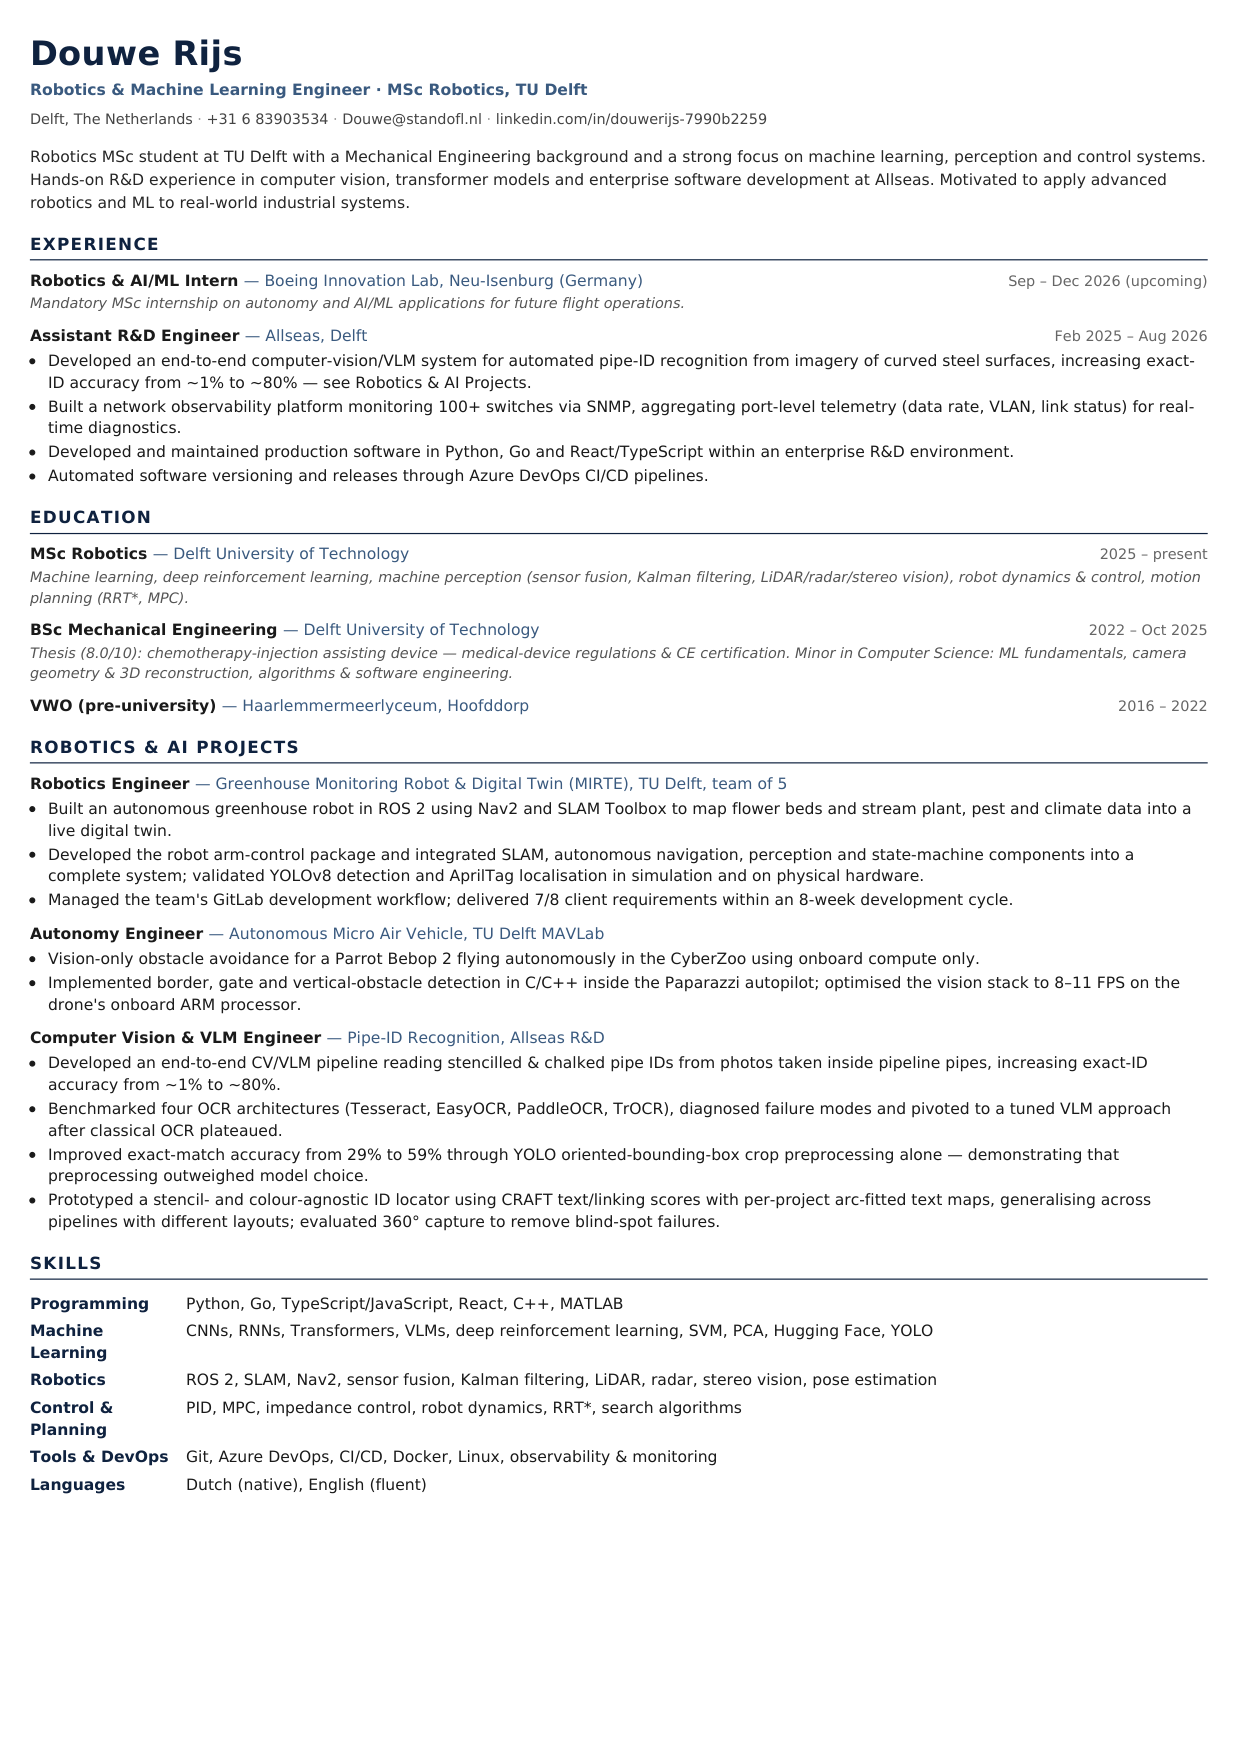
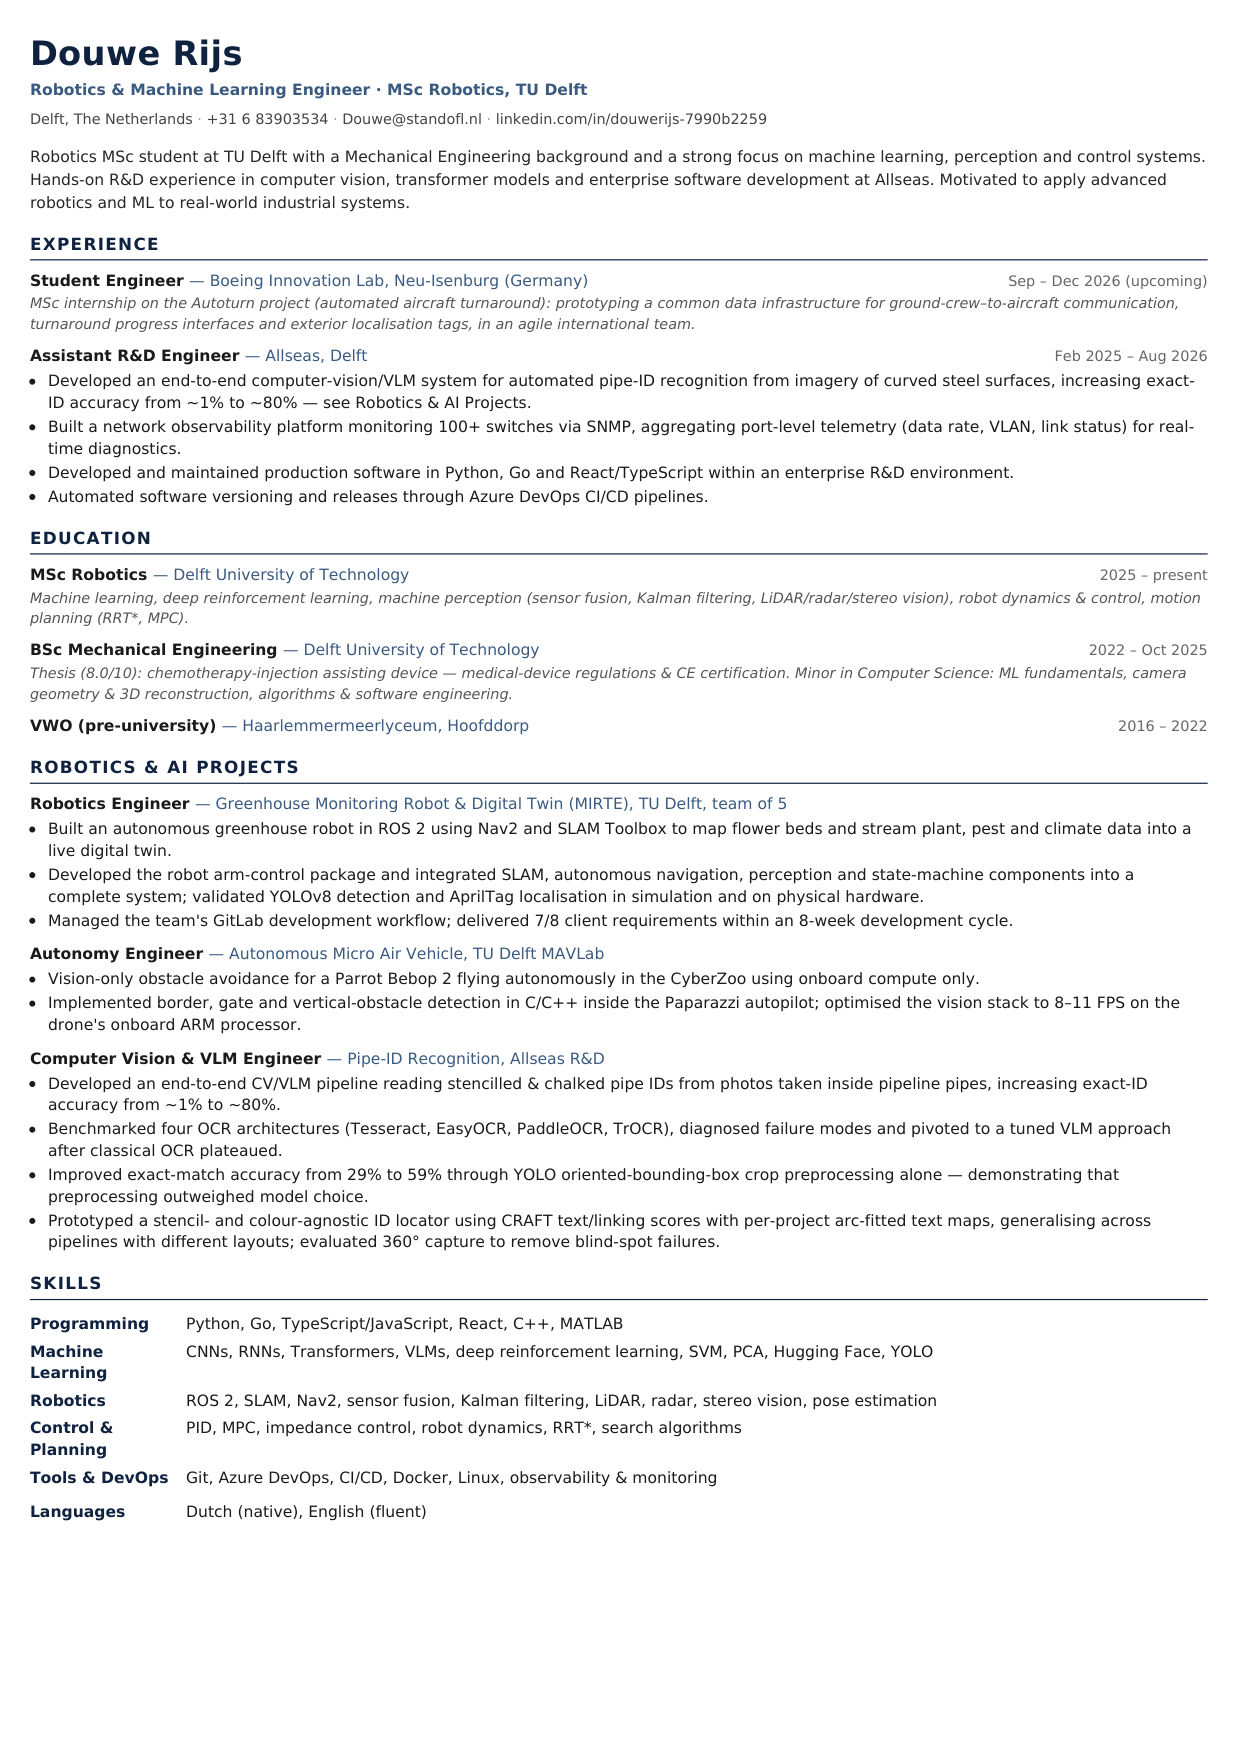
Use official Boeing title with Autoturn project description

Changed region(s): [[0.0, 0.1538, 0.9806, 0.8615]]

diff --git a/scripts/cv/cv.html b/scripts/cv/cv.html
@@ -148,13 +148,15 @@
     <div class="entry">
       <div class="entry-header">
         <div class="entry-title">
-          Robotics &amp; AI/ML Intern
+          Student Engineer
           <span class="entry-org">&mdash; Boeing Innovation Lab, Neu-Isenburg (Germany)</span>
         </div>
         <div class="entry-date">Sep &ndash; Dec 2026 (upcoming)</div>
       </div>
       <div class="entry-sub">
-        Mandatory MSc internship on autonomy and AI/ML applications for future flight operations.
+        MSc internship on the Autoturn project (automated aircraft turnaround): prototyping a common
+        data infrastructure for ground-crew&ndash;to-aircraft communication, turnaround progress
+        interfaces and exterior localisation tags, in an agile international team.
       </div>
     </div>
 
